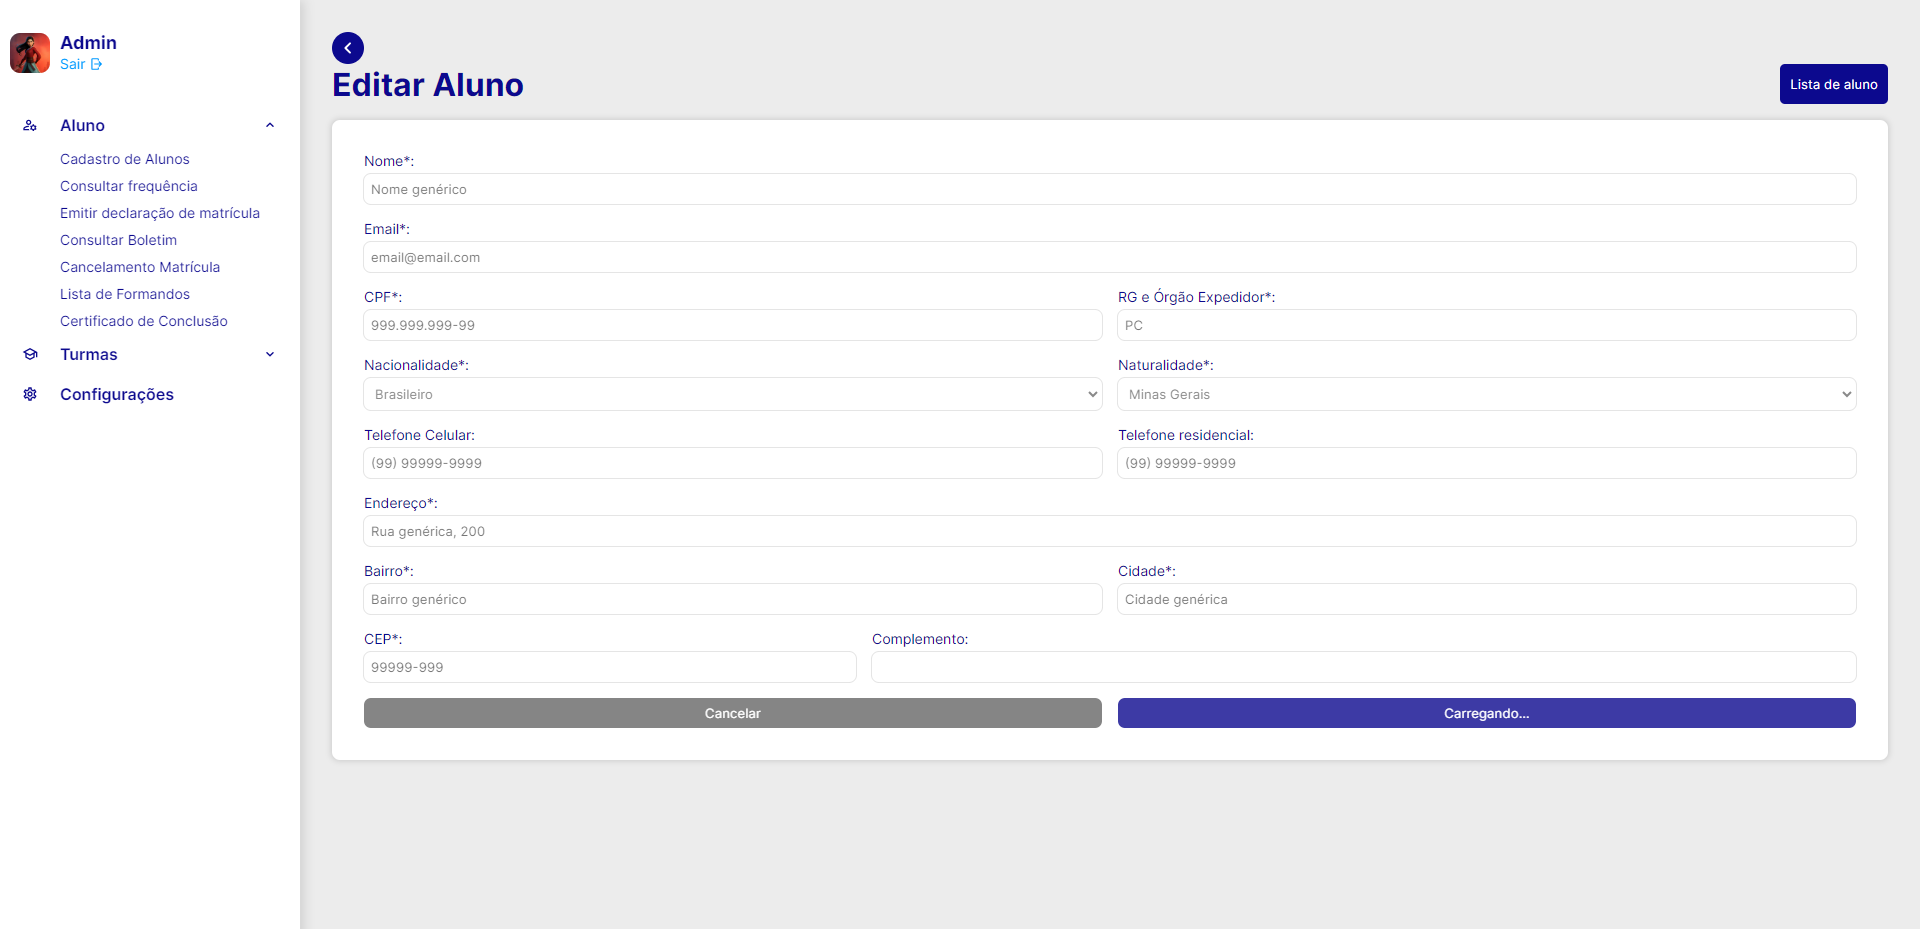
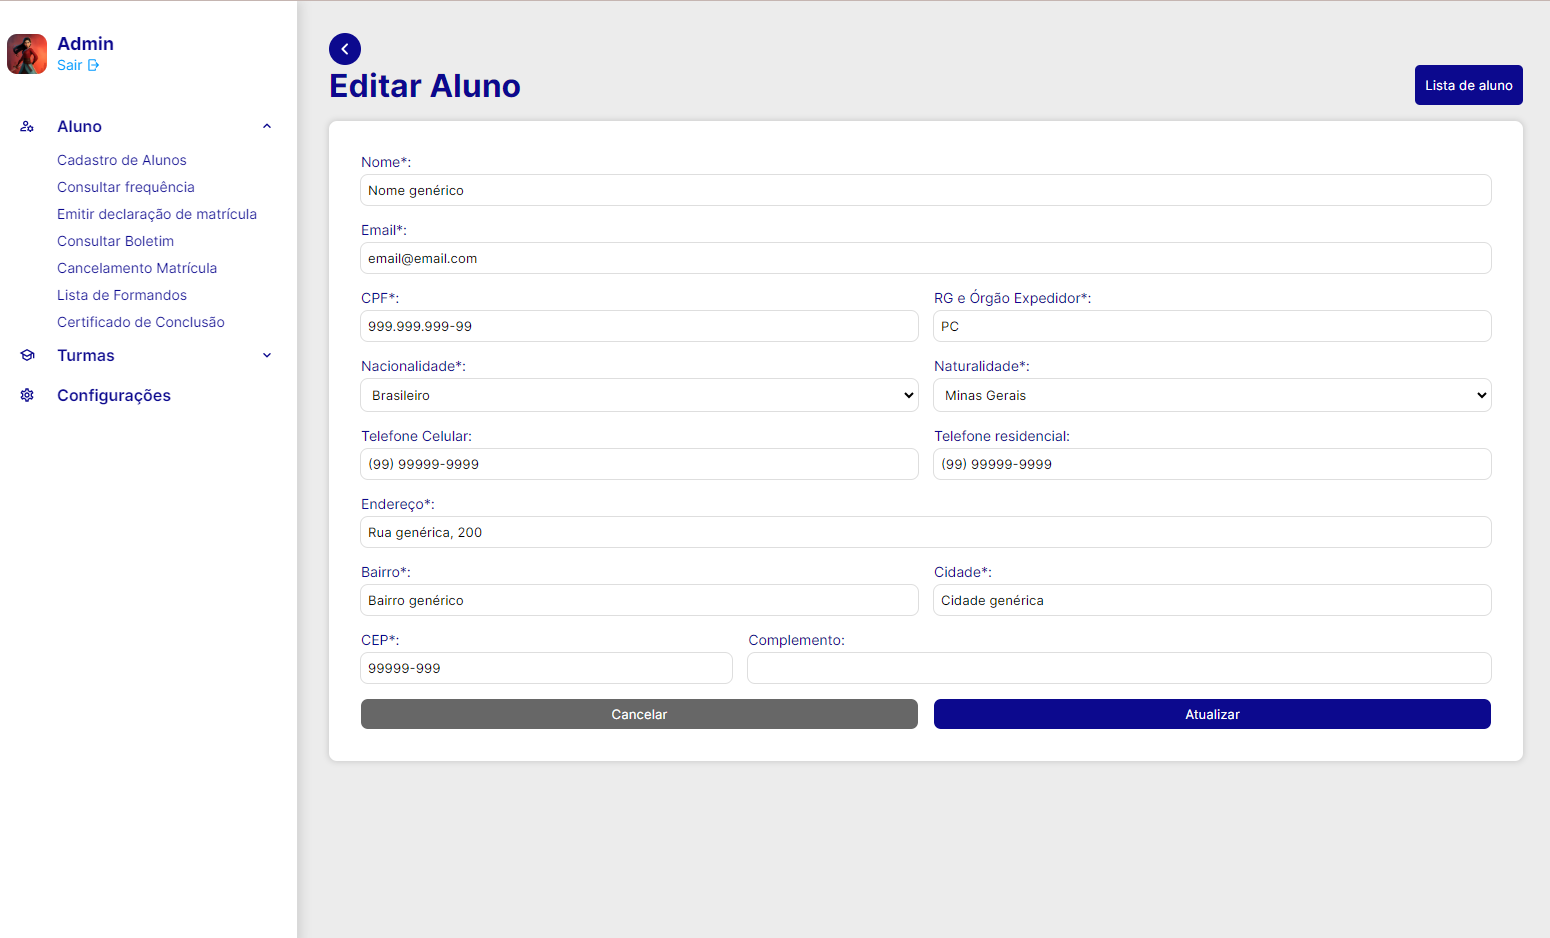
corrigindo bug em editar aluno

diff --git a/codigo-fonte/src/pages/aluno/editar/index.js b/codigo-fonte/src/pages/aluno/editar/index.js
@@ -43,21 +43,23 @@ async function loadStudentData() {
                 return;
             }
 
-            const input = form.querySelector(`input[name=${key}], select[name=${key}]`);
+            const inputs = form.querySelectorAll(`input[name=${key}], select[name=${key}]`);
 
-            if (['nacionalidade', 'naturalidade'].includes(key)) {
-                const options = input.querySelectorAll('options');
-
-                options.forEach((option) => {
-                    option.removeAttribute('selected');
-
-                    if (option.value === value) {
-                        option.setAttribute('selected');
-                    }
-                })
-            }
-
-            input.value = value;
+            inputs.forEach((input) => {
+                if (['nacionalidade', 'naturalidade'].includes(key)) {
+                    const options = input.querySelectorAll('options');
+    
+                    options.forEach((option) => {
+                        option.removeAttribute('selected');
+    
+                        if (option.value === value) {
+                            option.setAttribute('selected');
+                        }
+                    })
+                }
+    
+                input.value = value;
+            });
         });
 
         setStateLoading(false);

diff --git a/codigo-fonte/src/hooks/useDOMManager.js b/codigo-fonte/src/hooks/useDOMManager.js
@@ -84,8 +84,6 @@ export const useDOMManager = () => {
             tableBodyRow.forEach(row => {
                 const active = row.getAttribute('data-active') === 'true';
 
-                console.log('active', active);
-
                 const buttonEdit = document.createElement('button');
                 buttonEdit.classList.add('edit-button');
                 buttonEdit.innerHTML = '<span class="iconify-inline" data-icon="ic:outline-edit"></span>';
